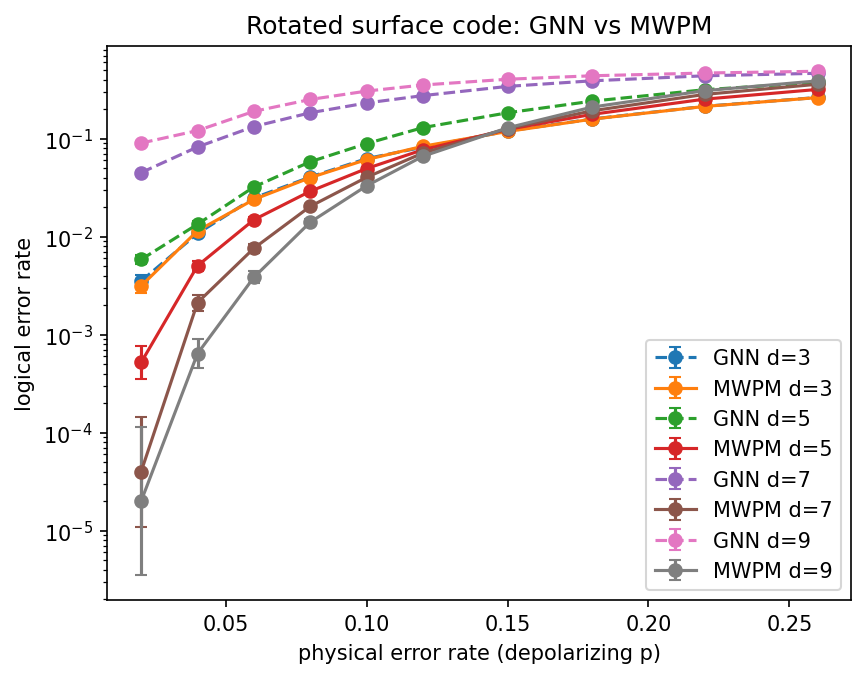
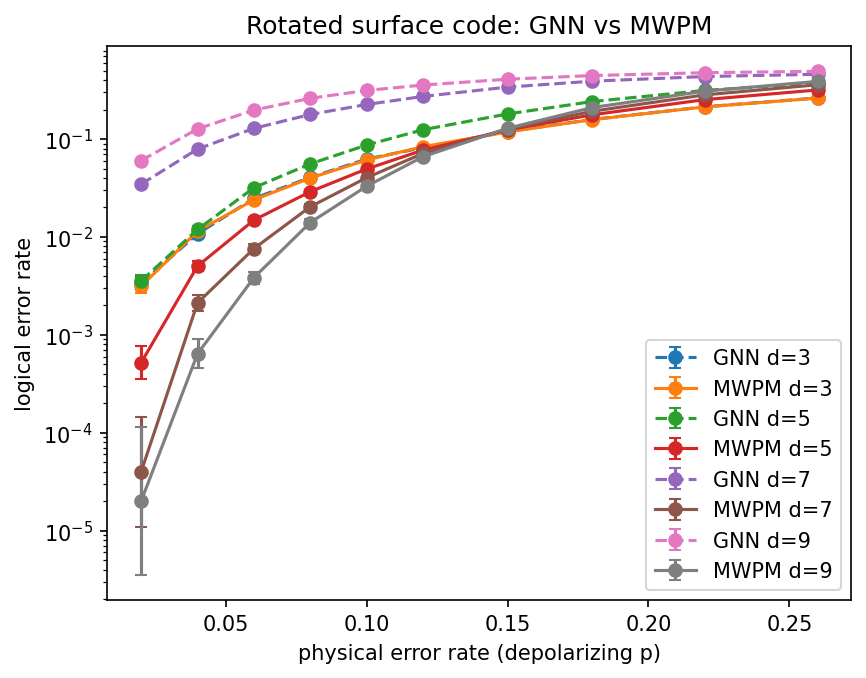
Bracketing eval range only partially closes the d=7/d=9 low-p gap
Adding p=0.02 to training rates (converting it from extrapolation to
interpolation) reduced the gap at p=0.02 by ~25-33% (d=7: ~1125x -> ~865x
worse than MWPM; d=9: ~4500x -> ~3012x), but the GNN still floors out
around 0.03-0.06 instead of continuing to drop like MWPM. Extrapolation
was only part of the story -- the bigger factor looks like model
capacity/training volume not matching the larger code's much bigger space
of low-activity "still no flip" syndromes.

Changed region(s): [[0.1559, 0.0929, 0.9665, 0.4336], [0.2806, 0.3717, 0.3118, 0.4027]]

diff --git a/README.md b/README.md
@@ -75,9 +75,23 @@ need. Concretely: at low noise the correct answer is almost always "no
 flip", and telling apart the many subtly-different low-activity syndrome
 patterns that still mean "no flip" from the rare ones that don't gets
 combinatorially harder as distance grows, without proportionally more
-low-signal training examples to learn that boundary from. Scaling the
-training budget (or shots specifically at low p) with distance is the
-natural next fix, not something to paper over.
+low-signal training examples to learn that boundary from.
+
+**Follow-up experiment**: eval p=0.02 sat *below* every training rate
+(lowest was 0.04) -- purely an extrapolation point, and neural nets are
+known to extrapolate badly, more so as the decision boundary gets more
+complex. Added 0.02 to `train_physical_error_rates` to bracket the full
+eval range and turn that into an interpolation test instead. Result: a
+real but partial improvement -- d=7 at p=0.02 went from ~1125x worse than
+MWPM to ~865x worse (0.0346 vs 0.00004), d=9 from ~4500x to ~3012x (0.0602
+vs 0.00002). Better, but the gap is still enormous, so extrapolation was
+only part of the story: the plot above (already the post-fix version) still
+shows GNN d=7/d=9 essentially flooring out around 0.03-0.06 at low p
+instead of continuing to drop like MWPM does. That flooring is more
+consistent with the model lacking the capacity or training volume to
+represent the larger code's much bigger space of "still no flip" sparse
+syndromes, not a training-range boundary effect. Scaling shots/model size
+with distance is the natural next experiment, not something to paper over.
 
 Reproduce (GPU strongly recommended -- see below):
 `qecdecoder gnn-benchmark experiments/configs/phase3_gnn_benchmark.yaml --device cuda --name phase3_gnn_benchmark`
